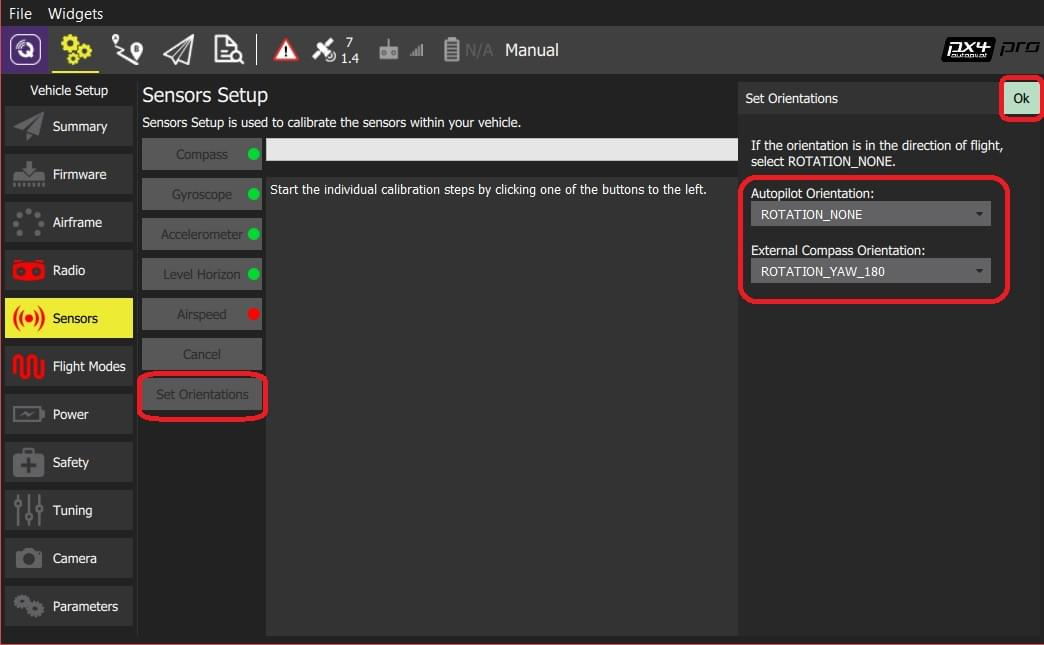
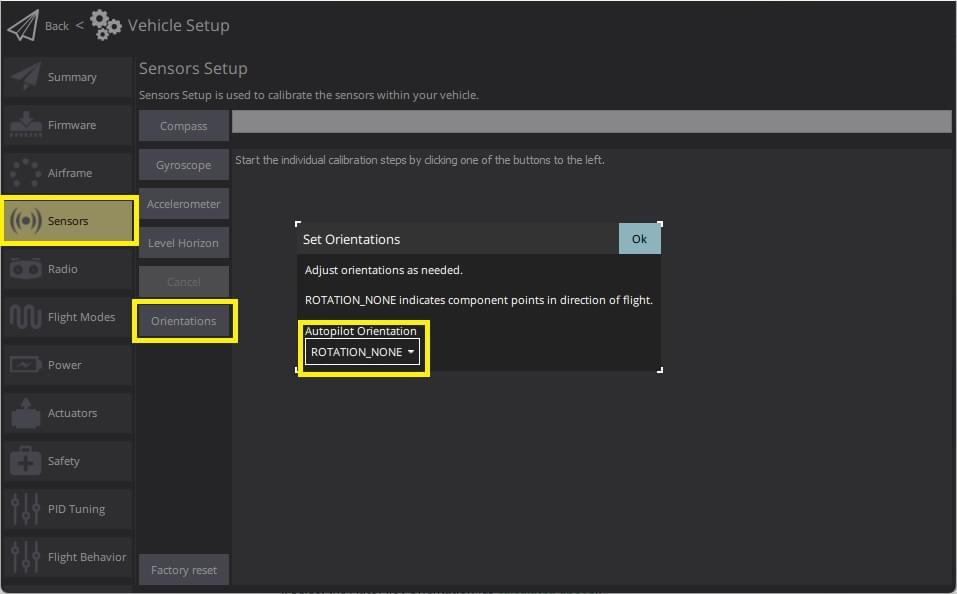
Fix up normal FC orientation

diff --git a/en/config/flight_controller_orientation.md b/en/config/flight_controller_orientation.md
@@ -13,7 +13,7 @@ The axes to rotate around stay the same from one rotation step to the next one.
 So the frame to perform the rotation in stays fixed.
 This is also known as _extrinsic rotation_.
 
-<img src="../../assets/qgc/setup/sensor/fc_orientation_1.png" style="width: 600px;"/>
+![Vehicle orientation](../../assets/qgc/setup/sensor/fc_orientation_1.png)
 
 For example, the vehicles shown below have rotations around the z-axis (i.e. yaw only) corresponding to: `ROTATION_NONE`, `ROTATION_YAW_90`,`ROTATION_YAW_180`,`ROTATION_YAW_270`.
 
@@ -31,16 +31,15 @@ For more information see [Basic Concepts](../getting_started/px4_basic_concepts.
 To set the orientations:
 
 1. Start _QGroundControl_ and connect the vehicle.
-1. Select the **Gear** icon (Vehicle Setup) in the top toolbar and then **Sensors** in the sidebar.
-1. Select the **Set Orientations** button.
+1. Select the **Q** icon (top left), **Vehicle Setup** in the popup.
+1. Select **Sensors** in the sidebar and then the **Orientations** button.
 
-   <img src="../../assets/qgc/setup/sensor/sensor_orientation_set_orientations.jpg" style="width: 600px;"/>
+   ![Set sensor orientations](../../assets/qgc/setup/sensor/sensor_orientation_set_orientations.jpg)
 
 1. Select the **AutoPilot Orientation** (as [calculated above](#calculating-orientation)).
 
-   <img src="../../assets/qgc/setup/sensor/sensor_orientation_selector_values.jpg" style="width: 200px;"/>
+   ![Orientation options](../../assets/qgc/setup/sensor/sensor_orientation_selector_values.jpg)
 
-1. Select the **External Compass Orientation** in the same way (this option will only be displayed if your vehicle has an external compass).
 1. Press **OK**.
 
 ## Fine Tuning
